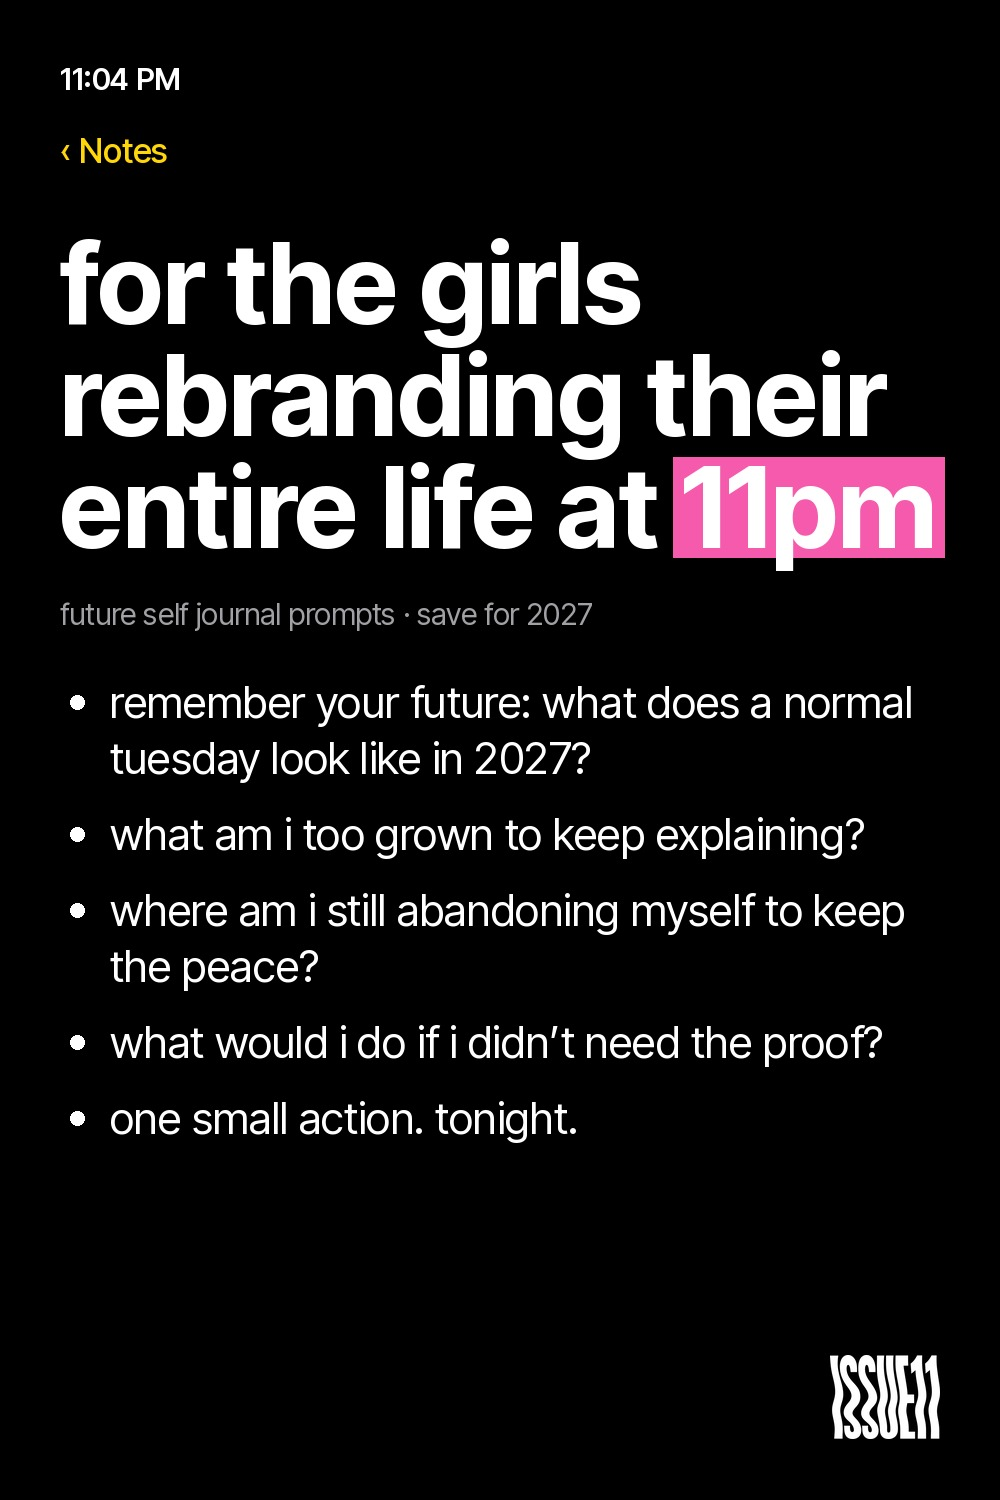
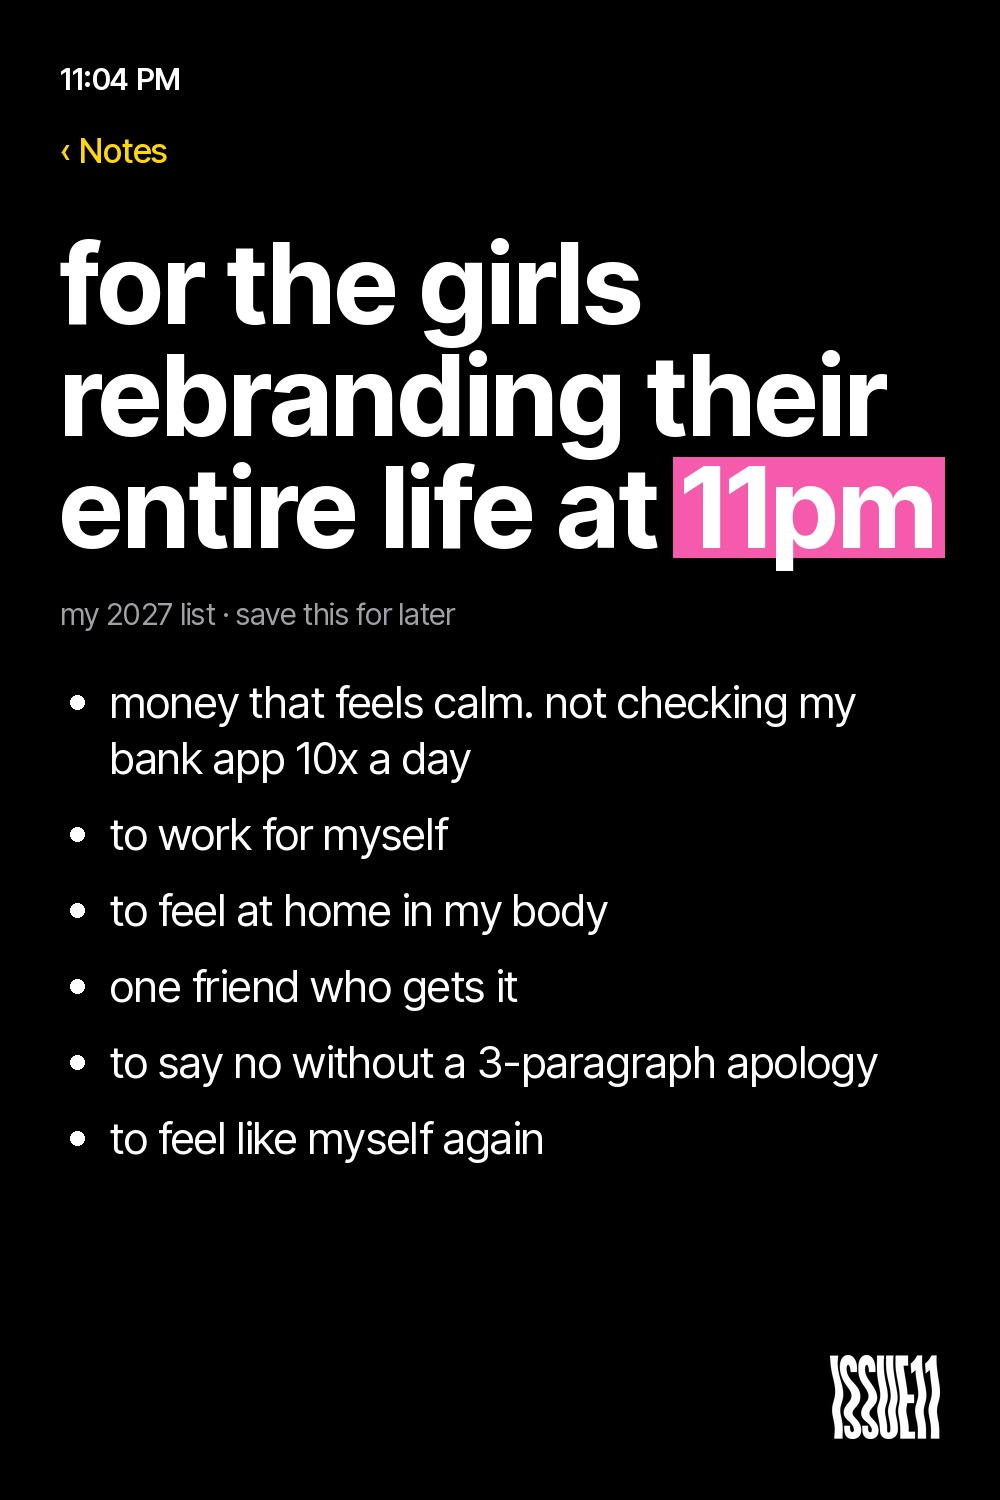
Pinterest: Notes pins rewritten as customer desires
Claude-Session: https://claude.ai/code/session_013zCndAMB566ZdjtTW5BiS4

Changed region(s): [[0.062, 0.552, 0.899, 0.7973], [0.093, 0.46, 0.93, 0.5213], [0.062, 0.3987, 0.589, 0.4293]]

diff --git a/drafts/pinterest/templates/notes_v2.py b/drafts/pinterest/templates/notes_v2.py
@@ -12,7 +12,7 @@ def wrap(d,text,f,maxw):
         if d.textlength(t,font=f)>maxw and cur: out.append(cur); cur=w
         else: cur=t
     out.append(cur); return out
-def notes(hook,hl,ps,out):
+def notes(hook,hl,ps,out,sub="future self journal prompts · save for 2027"):
     im=Image.new("RGBA",(W,H),(0,0,0)); d=ImageDraw.Draw(im)
     d.text((60,60),"11:04 PM",font=IT(30,"SemiBold"),fill=(255,255,255))
     d.text((60,130),"‹ Notes",font=IT(34,"Medium"),fill=(255,214,10))
@@ -26,7 +26,7 @@ def notes(hook,hl,ps,out):
             d.text((x,y),w,font=f,fill=(255,255,255)); x+=ww+d.textlength(" ",font=f)
         y+=112
     y+=44
-    d.text((60,y),"future self journal prompts · save for 2027",font=IT(30,"Regular"),fill=(160,160,165)); y+=80
+    d.text((60,y),sub,font=IT(30,"Regular"),fill=(160,160,165)); y+=80
     fp=IT(44,"Regular")
     for p in ps:
         d.ellipse([70,y+20,84,y+34],fill=(255,255,255))
@@ -34,11 +34,13 @@ def notes(hook,hl,ps,out):
         y+=20
     paste_logo(im,_mk((255,255,255)),W-60-110,H-60-85,110)
     im.convert("RGB").save(OUT+out,quality=92); return y
-ps1=["remember your future: what does a normal tuesday look like in 2027?","what am i too grown to keep explaining?","where am i still abandoning myself to keep the peace?","what would i do if i didn’t need the proof?","one small action. tonight."]
-print(notes("for the girls rebranding their entire life at 11pm",["11pm"],ps1,"D1-notes-11pm.jpg"))
-print(notes("i’m too grown to keep explaining myself.",["grown"],["what am i done explaining?","who gets my time in 2027?","what does protecting my peace look like this week?","what would i say no to without a 3-paragraph apology?","one small action. tonight."],"D2-notes-too-grown.jpg"))
-print(notes("i don’t need the proof.",["proof"],["what am i claiming for 2027?","write it like it already happened","what would i do if i already had it?","it’s on my vision board. what’s one small action tonight?","remember your future"],"D3-notes-no-proof.jpg"))
-ims=[Image.open(OUT+f) for f in ["D1-notes-11pm.jpg","D2-notes-too-grown.jpg","D3-notes-no-proof.jpg"]]
+A=["money that feels calm. not checking my bank app 10x a day","to work for myself","to feel at home in my body","one friend who gets it","to say no without a 3-paragraph apology","to feel like myself again"]
+B=["a soft life with a calm nervous system","to be debt free","my dream home","to protect my peace and keep my circle small","to be chosen","to feel like myself again"]
+C=["money that feels calm","my own business","my dream home","to feel at home in my body","one friend who gets it","to feel like myself again"]
+print(notes("for the girls rebranding their entire life at 11pm",["11pm"],A,"D1-notes-11pm.jpg",sub="my 2027 list · save this for later"))
+print(notes("i’m too grown to keep explaining myself.",["grown"],B,"D2-notes-too-grown.jpg",sub="what i want in 2027 · save this for later"))
+print(notes("2027, i claim it.",["claim"],C,"D3-notes-claim-it.jpg",sub="my 2027 vision board list · save this for later"))
+ims=[Image.open(OUT+f) for f in ["D1-notes-11pm.jpg","D2-notes-too-grown.jpg","D3-notes-claim-it.jpg"]]
 s=Image.new('RGB',(3*390+20,600),(255,255,255)); x=10
 for i in ims: s.paste(i.resize((380,570)),(x,15)); x+=390
 s.save(OUT+"preview-notes-v2.jpg",quality=85)

diff --git a/.pipeline/lessons.md b/.pipeline/lessons.md
@@ -470,3 +470,4 @@ Format: `- YYYY-MM-DD · <agent> · <what> · why · cost`
 - 2026-11-14 RULE (Megan, word for word: "it's really important to use lexicon and brand voice etc"): every pin, caption, quote card and cover line is written from design/editorial/LEXICON.md (copied from her Lexicon doc) + her Brand Voice Guide (https://claude.ai/artifact/92WZYpLvRUwjLLNtQmyEPp): reader line "I am becoming me", registry lines as written, their phrases word for word, no contrast turns ("Not X. Y."), no faith words, ALL CAPS cover lines with no full stops, one of her emojis max. Run the Voice Guide's "Before anything runs" checklist before any batch.
 - 2026-11-14 (AEO) Live Framer article links are relative (href="./slug"), so grep for that form when auditing internal links; my first audit missed them. To add a CMS link with the Framer MCP: TextRun link {href:"/blog/:<collectionId>", collectionItem:"<slug>"} (ISSUE11 qNa_LfTAC, Glammi R4mgLoqyF), inserted as a TextBlock right before the FAQ heading. Re-run the inbound-link check after each publish so no new article stays unlinked.
 - 2026-11-14 Pinterest: Megan said the Notes pin "doesn't 100% sound human". Write prompt/list pins only from customer phrases in design/editorial/LEXICON.md ("remember your future", "too grown to keep explaining", "I don't need the proof", "protect my peace", "one small action"), not our own coaching wording.
+- 2026-11-14 Pinterest (Megan): list pins are written as the customer's desires in her own words ("money that feels calm", "to work for myself", "one friend who gets it", "to feel like myself again"), not as questions or prompts. Pair them with a scroll-stopping hook from the Lexicon.
